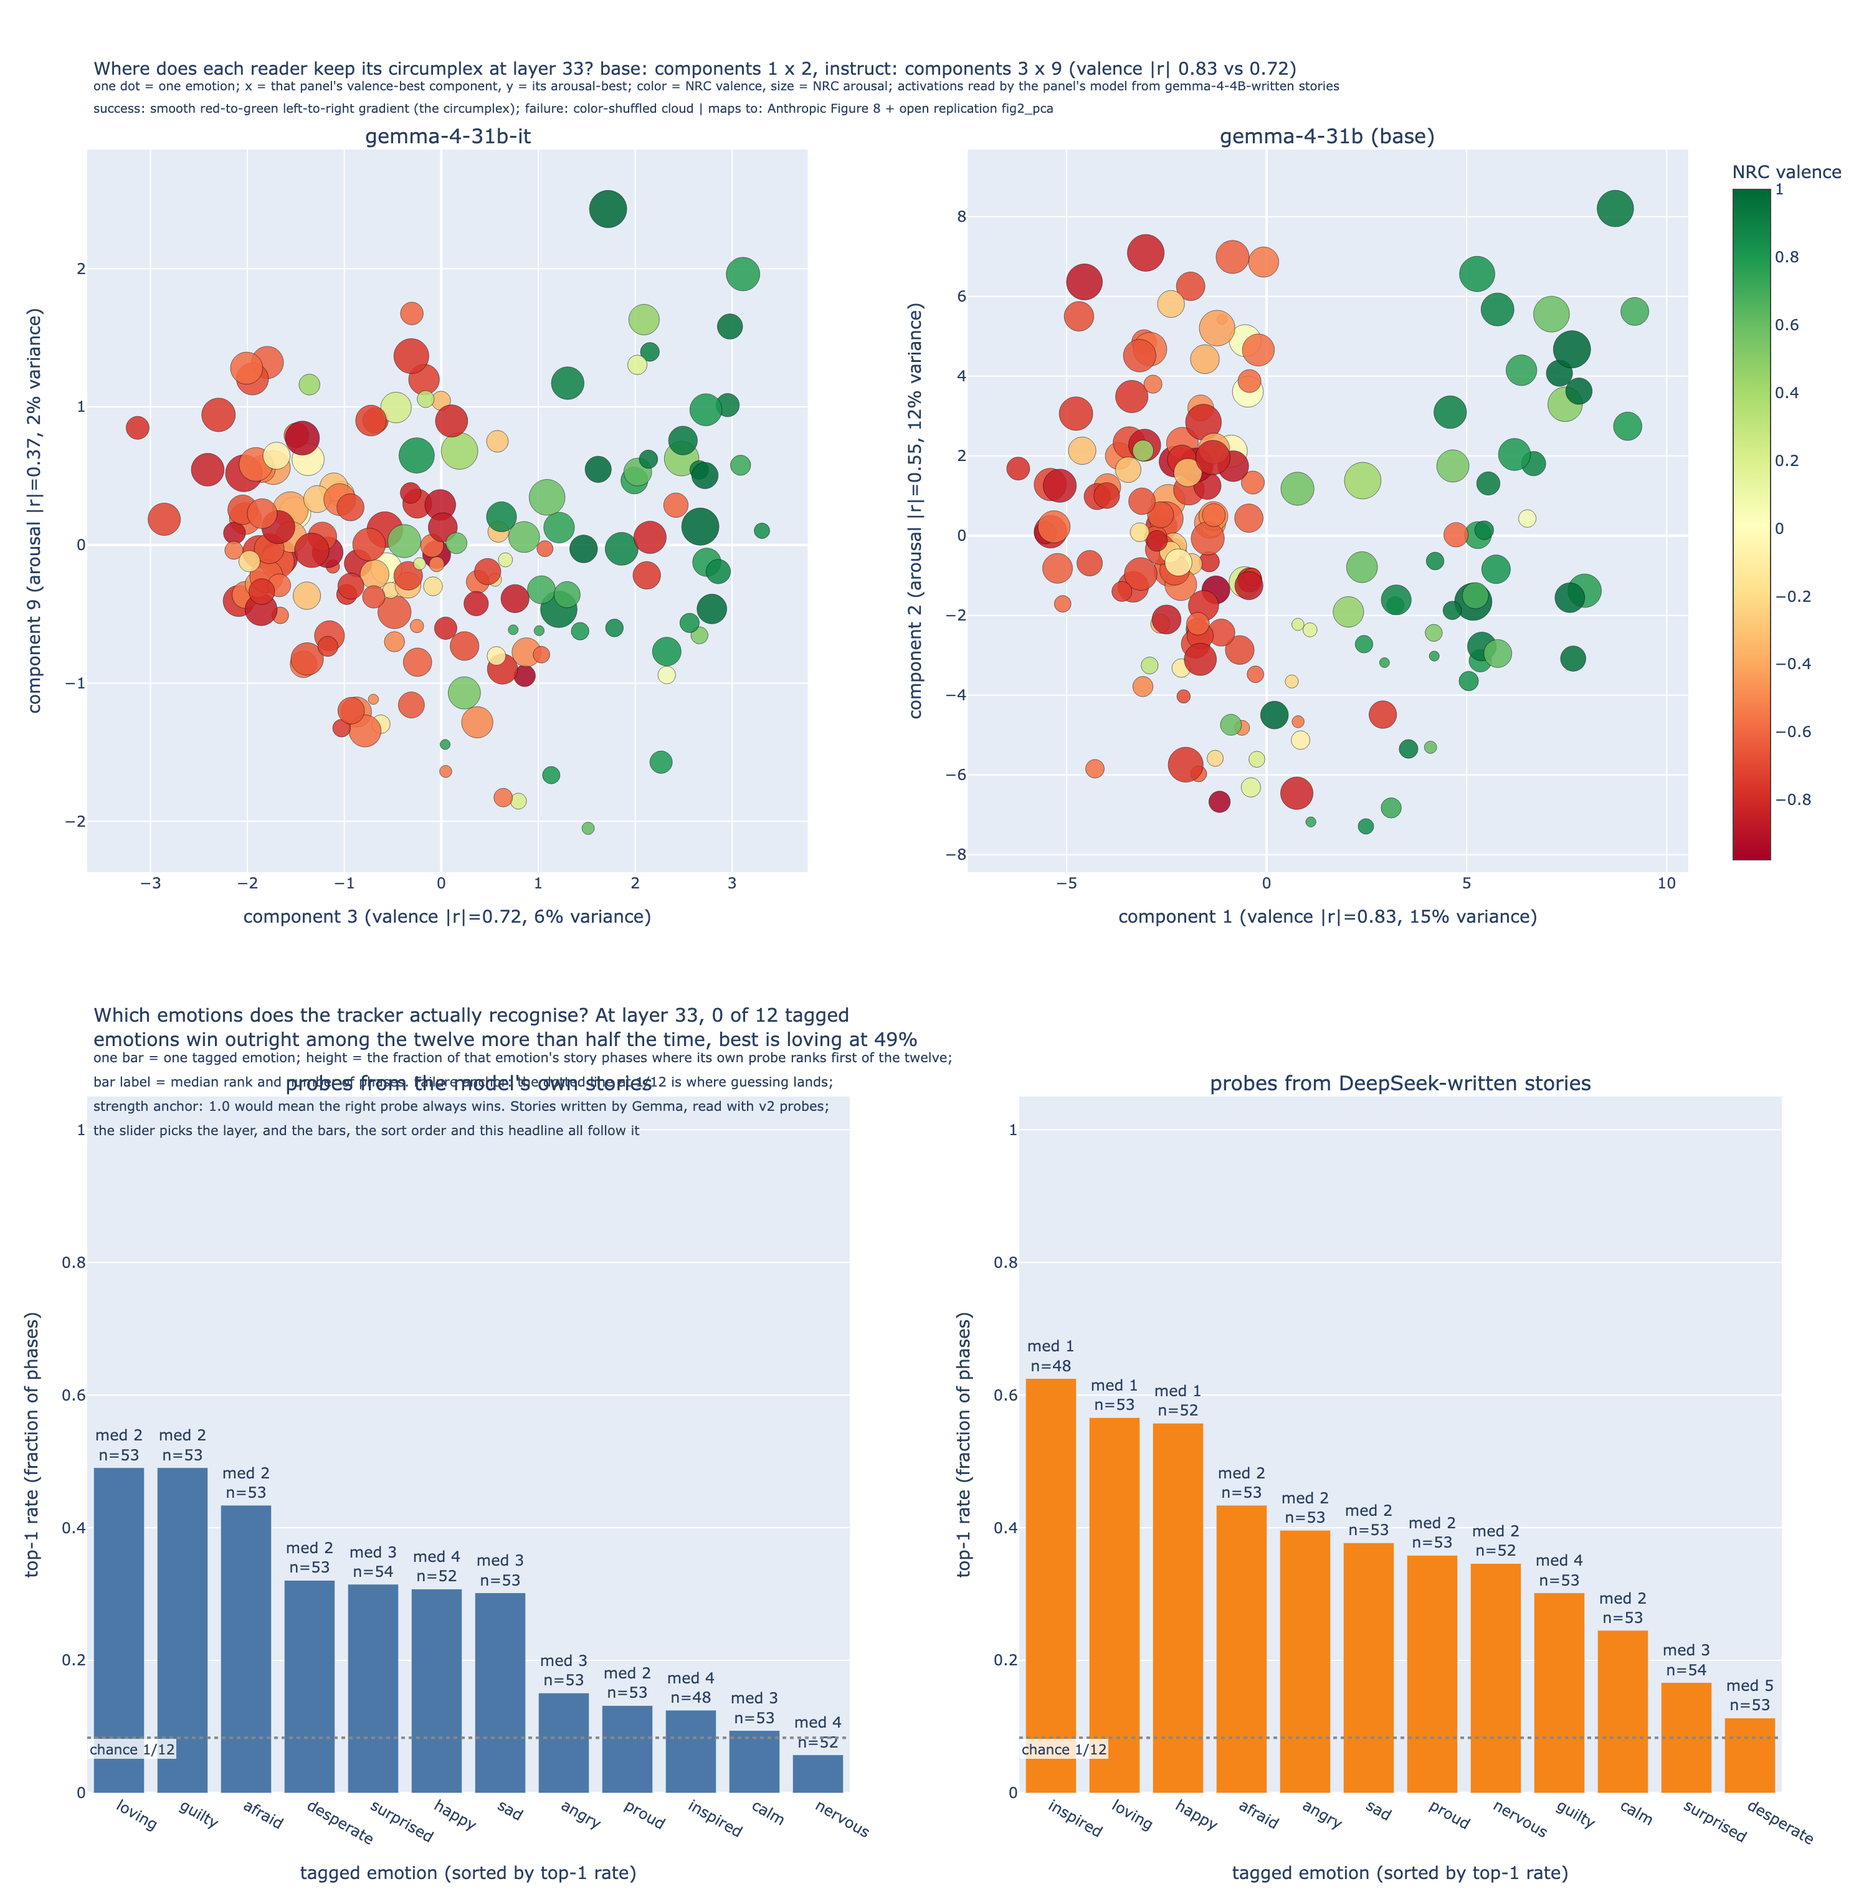
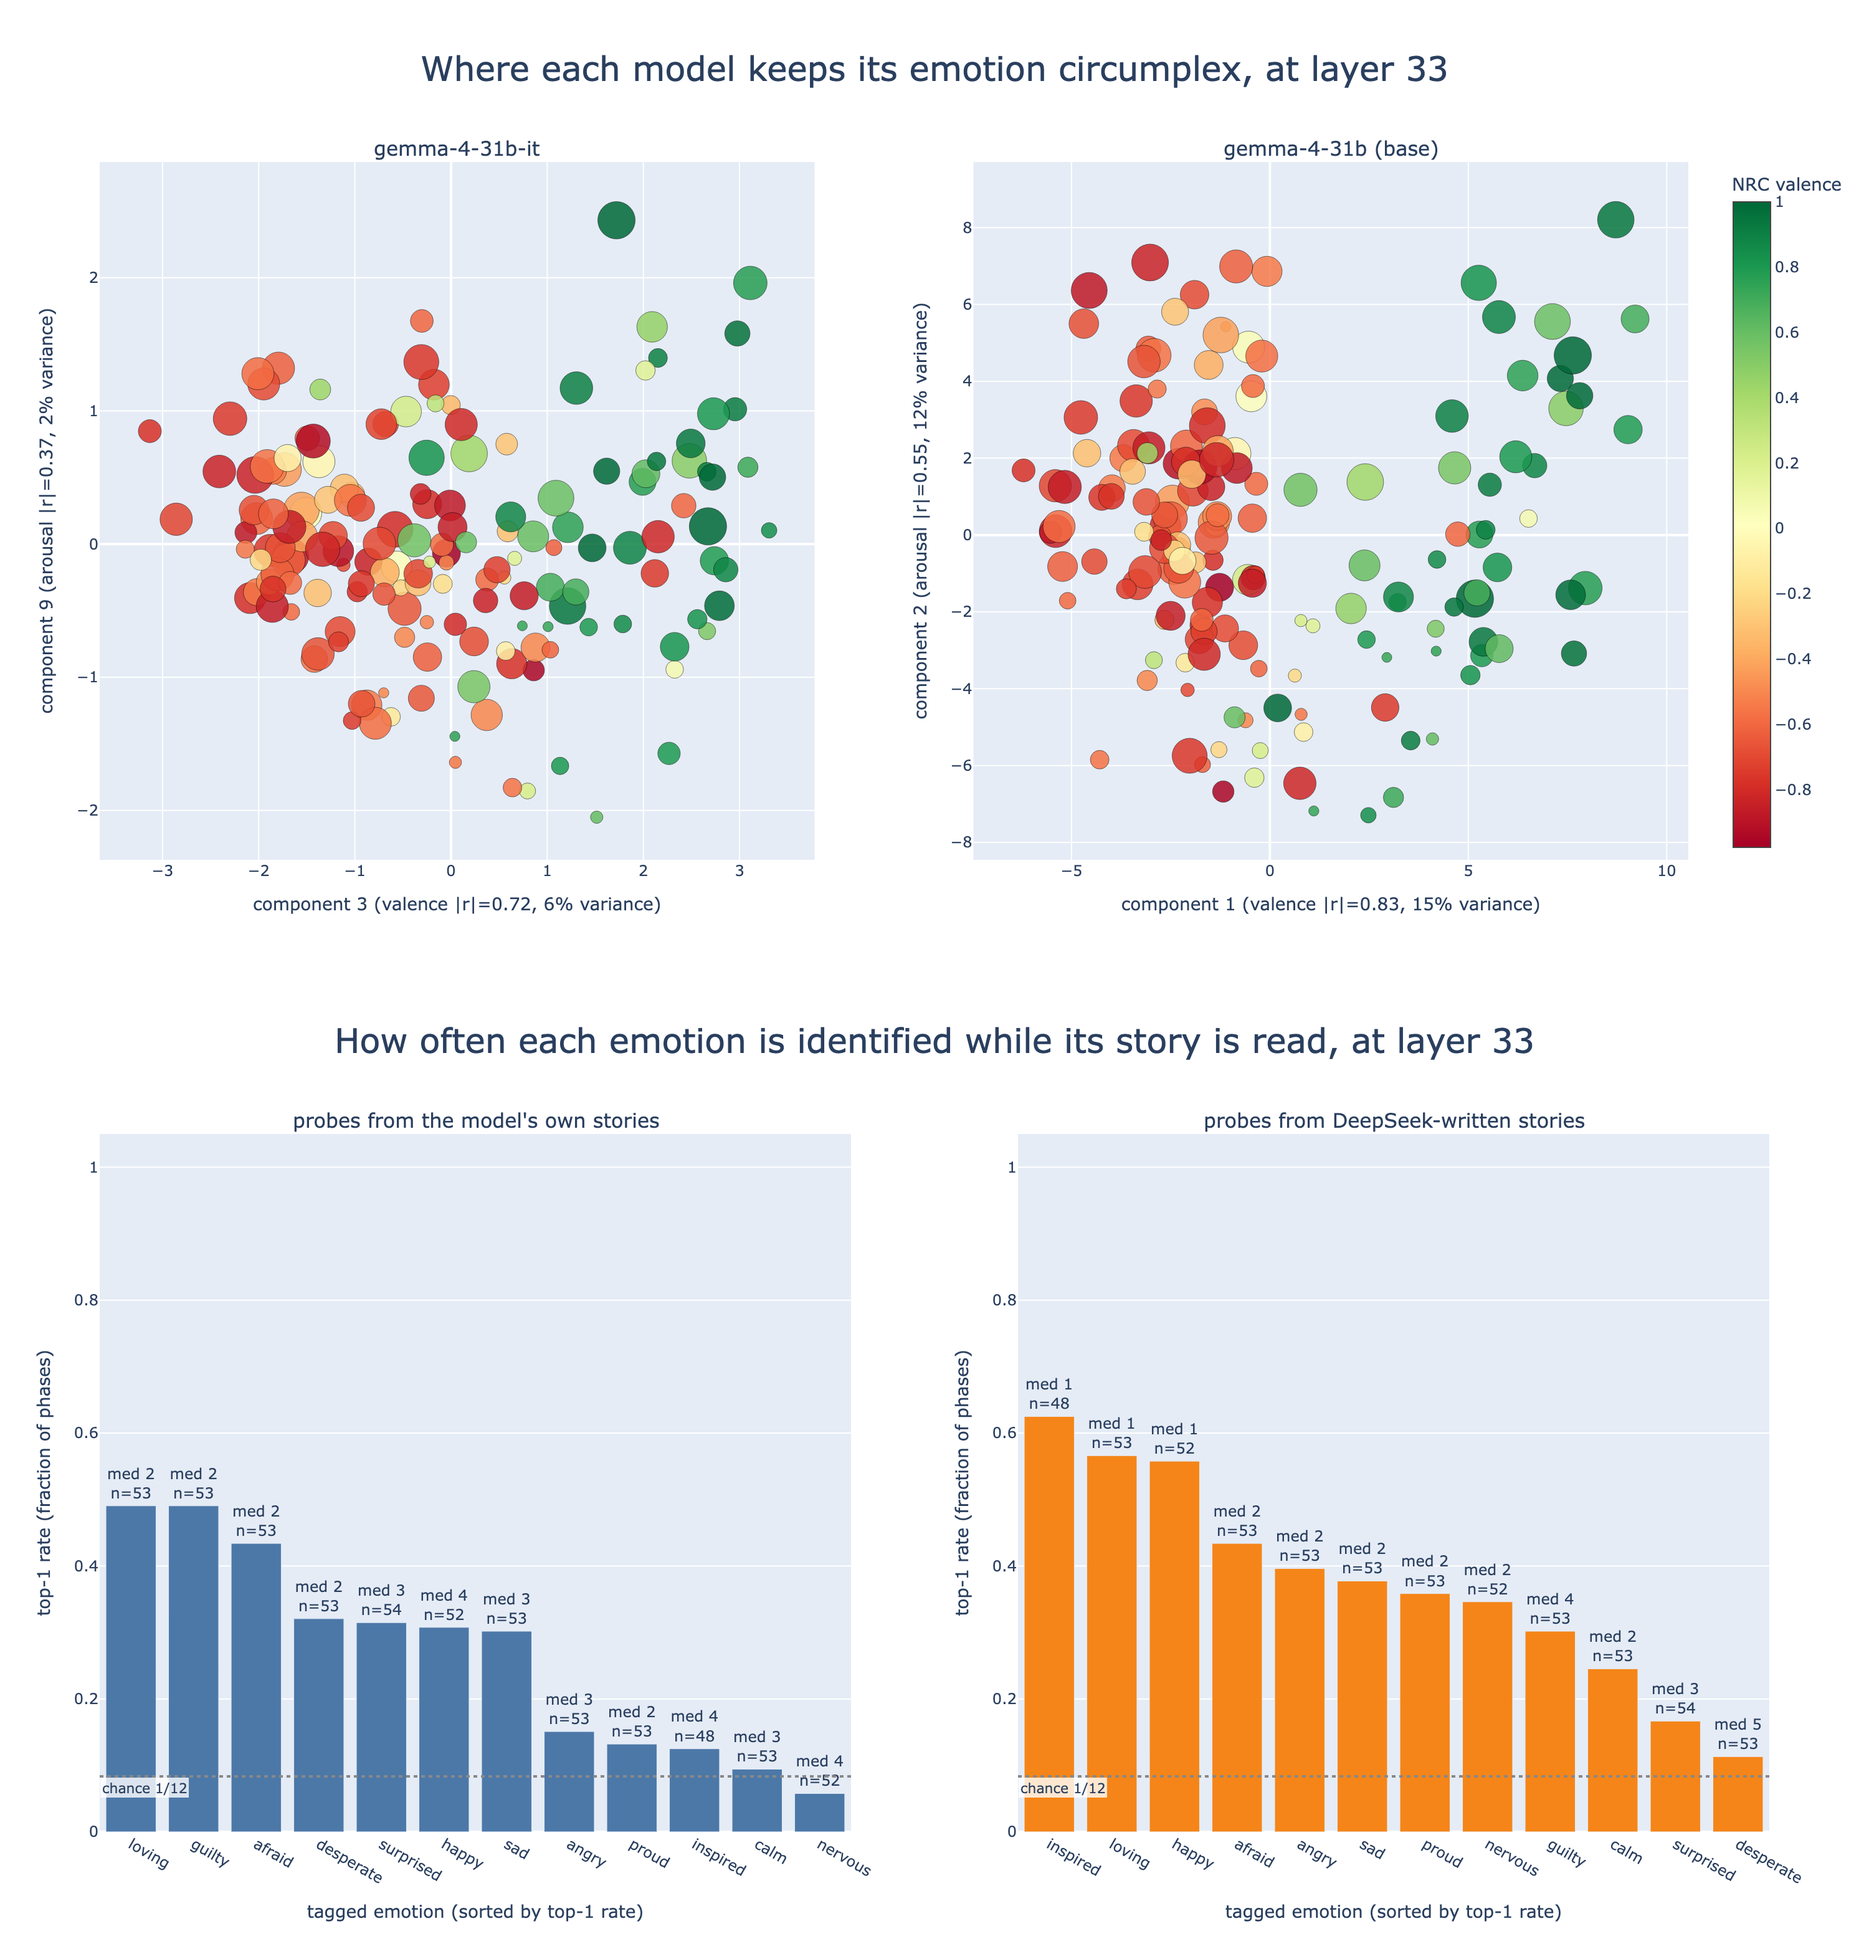
Make the hero figure readable, and hold the README to the writing standard
The figure was unreadable and I shipped it without looking at it properly. In
the tracking panel the notebook's five-line subtitle ran straight through the
subplot titles, and parts of it were meaningless in a still image anyway: "the
slider picks the layer" describes a control a PNG does not have, and "maps to:
Anthropic Figure 8" is an internal cross-reference.

Both panels now carry one short title written for this context, and the
notebook subtitles are dropped. The detail they held is in the README caption,
where it can be read as prose instead of collided with. The titles are
deliberately neutral about which model does better: the panels are ordered
instruct-then-base, so a title claiming "recovered, then demoted" would run
against the order the eye meets them in. The caption names left and right.

Then the self-edit pass from the scientific-writing skill, over the whole file:
five sentences ran past 30 words, including two in the figure caption, and each
is now split. The README is 97 sentences, longest 29 words, mean 13, no em
dashes.

diff --git a/scripts/render_readme_figure.py b/scripts/render_readme_figure.py
@@ -30,13 +30,29 @@ from emotion_vectors.taxonomy_report import load_arms, s1_top1_figure
 
 OUT = Path(__file__).resolve().parent.parent / "img" / "hero.png"
 PANEL_WIDTH = 1500
-PANEL_HEIGHT = 760
+PANEL_HEIGHT = 780
 SCALE = 2
 TRACKING_ARMS = ["it_v2", "it", "deepseek", "deepseek_constant", "base"]
 
+# One line each. The figures' own subtitles run to five lines of small text and
+# assume a notebook reader; everything they say is in the README caption.
+# Neutral, because the panels are ordered instruct-then-base: a title claiming
+# "recovered, then demoted" would run against the order the eye meets them in.
+# The README caption names which panel is which and carries the argument.
+GEOMETRY_TITLE = "Where each model keeps its emotion circumplex, at layer 33"
+TRACKING_TITLE = "How often each emotion is identified while its story is read, at layer 33"
 
-def still(figure) -> None:
-    """Strip the interactive controls a static export cannot honour.
+
+def still(figure, title: str) -> None:
+    """Make a notebook figure legible as a still image.
+
+    Two things have to go. The interactive controls, because a still image
+    cannot be dragged and leaving the slider in implies otherwise. And the
+    notebook subtitle, which is four or five lines of small text written for a
+    reader who has the surrounding narrative: in a static export it collides
+    with the subplot titles, and some of it is meaningless anyway ("the slider
+    picks the layer"). The README caption carries that detail instead, where it
+    can be read as prose.
 
     Direct assignment, not ``update_layout(sliders=[])``: plotly reads the empty
     list there as "no change" and silently keeps the slider.
@@ -44,11 +60,14 @@ def still(figure) -> None:
     figure.layout.sliders = ()
     figure.layout.updatemenus = ()
     figure.frames = ()
-    figure.update_layout(margin=dict(l=70, r=70, t=120, b=60))
+    figure.update_layout(
+        title=dict(text=title, x=0.5, xanchor="center", font=dict(size=27)),
+        margin=dict(l=80, r=80, t=130, b=90),
+    )
 
 
-def render(figure, path: Path) -> None:
-    still(figure)
+def render(figure, title: str, path: Path) -> None:
+    still(figure, title)
     figure.write_image(str(path), width=PANEL_WIDTH, height=PANEL_HEIGHT, scale=SCALE)
 
 
@@ -58,11 +77,11 @@ def main() -> int:
     bottom = OUT.parent / "_tracking.png"
 
     geometry, _ = s2_circumplex_figure(load_geometry_context())
-    render(geometry, top)
+    render(geometry, GEOMETRY_TITLE, top)
     print(f"  rendered the geometry panel -> {top.name}")
 
     tracking, _ = s1_top1_figure(load_arms(TRACKING_ARMS))
-    render(tracking, bottom)
+    render(tracking, TRACKING_TITLE, bottom)
     print(f"  rendered the tracking panel -> {bottom.name}")
 
     images = [Image.open(top), Image.open(bottom)]

diff --git a/README.md b/README.md
@@ -6,16 +6,16 @@
   <img src="img/hero.png" width="900" alt="Top: two scatter plots of 171 emotion vectors on their principal components, one per model; the base model sorts into a smooth red-to-green valence gradient, the instruction-tuned model needs later components to show the same structure. Bottom: bar charts of how often each of twelve emotions is identified correctly while a story is read, one panel per story source, against a chance line at one in twelve.">
 </p>
 
-<p align="center"><em><b>(Top) The geometry.</b> Each dot is one emotion, placed by the principal components of 171 emotion vectors and coloured by its published human valence rating. Neither the axes nor the positions ever see a human rating. On the right, the base model's largest component is valence: the colours sort themselves left to right at an absolute correlation of 0.83, and the second component is arousal. That is the circumplex, recovered unprompted. On the left, after instruction tuning, the same structure survives but is demoted to components 3 and 9 and correlates at 0.72, while a different and larger component takes first place that we could not identify.<br><br><b>(Bottom) Tracking an emotion as a story moves through it,</b> at the same layer. Each bar is one emotion, and its height is how often that emotion's own vector ranks first out of twelve across the story phases written to express it. The dotted line at 1 in 12 is guessing. Nothing reaches half, the ranking changes with depth, and the two panels differ only in who wrote the stories the vectors were built from: the model's own writing on the left, a stronger external writer on the right.</em></p>
+<p align="center"><em><b>(Top) The geometry.</b> Each dot is one emotion, placed by the principal components of 171 emotion vectors and coloured by its published human valence rating. Neither the axes nor the positions ever see a human rating. On the right, the base model's largest component is valence: the colours sort themselves left to right at an absolute correlation of 0.83, and the second component is arousal. That is the circumplex, recovered unprompted. On the left, after instruction tuning, the same structure survives but is demoted. It appears at components 3 and 9 and correlates at 0.72. A different and larger component takes first place, and we could not identify it.<br><br><b>(Bottom) Tracking an emotion as a story moves through it,</b> at the same layer. Each bar is one emotion, and its height is how often that emotion's own vector ranks first out of twelve across the story phases written to express it. The dotted line at 1 in 12 is guessing. Nothing reaches half, and the ranking changes with depth. The two panels differ only in who wrote the stories the vectors were built from: the model's own writing on the left, a stronger external writer on the right.</em></p>
 
 ## Overview
 
-An **emotion vector** is the average internal state a language model enters while reading stories written to evoke one emotion. Anthropic reported that a model keeps a separate direction for each emotion, and that those directions arrange themselves the way psychologists arrange emotions, on a circumplex whose axes are valence (how pleasant) and arousal (how worked-up). They released no code.
+An **emotion vector** is the average internal state a language model enters while reading stories written to evoke one emotion. Anthropic reported that a model keeps a separate direction for each emotion. Those directions arrange themselves the way psychologists arrange emotions, on a circumplex. Its axes are valence (how pleasant the emotion is) and arousal (how worked-up it is). They released no code.
 
 This repository rebuilds that result on [Gemma 4 31B](https://huggingface.co/google/gemma-4-31b), in both its base and instruction-tuned form, and then asks two questions the paper did not. Three findings:
 
 - **The base model reproduces the published result.** Sort 171 emotion vectors by what separates them most and the largest axis is valence, correlating with human ratings at 0.83. Nothing in that calculation sees a human rating. The claim went through a falsification pass and survived.
-- **Instruction tuning demotes it.** Valence falls from first place to third, still present at 0.72. A new largest axis takes over, carrying 28% of the variance against 15% for the base model's top axis, and correlating at most 0.14 with any of the base model's top five. It is not valence, arousal, dominance or story length, and we checked all four.
+- **Instruction tuning demotes it.** Valence falls from first place to third, still present at 0.72. A new largest axis takes over. It carries 28% of the variance against 15% for the base model's top axis, and correlates at most 0.14 with any of the base model's top five. It is not valence, arousal, dominance or story length, and we checked all four.
 - **Who writes the stories decides whether any of this works.** Nobody reports which model generated the corpus a set of emotion vectors is built from. Holding everything else fixed, story source moves the number of usable layers from 1 to 9 out of 20.
 
 Read the [full write-up here](https://antonio-tresol.github.io/gemma4-emotion-vectors/). Every figure in it states what a failure would have looked like beside what was observed.
@@ -169,10 +169,7 @@ intervals, random-direction controls. Claims that failed those tests are marked
 Two things this caught that would otherwise have been published as findings.
 
 A left-padding default meant 4,032 A/B logits were read mid-prompt, turning two
-real effects into false nulls; correcting it reversed both. The near miss is the
-instructive part: the emotion vectors before and after that fix agree to a
-cosine of 0.9999, while the contrast directions built from them fall to 0.62 on
-the instruction-tuned model. A change too small to see in the activations can
+real effects into false nulls; correcting it reversed both. The near miss is the instructive part. The emotion vectors before and after that fix agree to a cosine of 0.9999. The contrast directions built from them fall to 0.62 on the instruction-tuned model. A change too small to see in the activations can
 still invert what you conclude from them.
 
 Separately, the detection bar registered in advance was written for the
